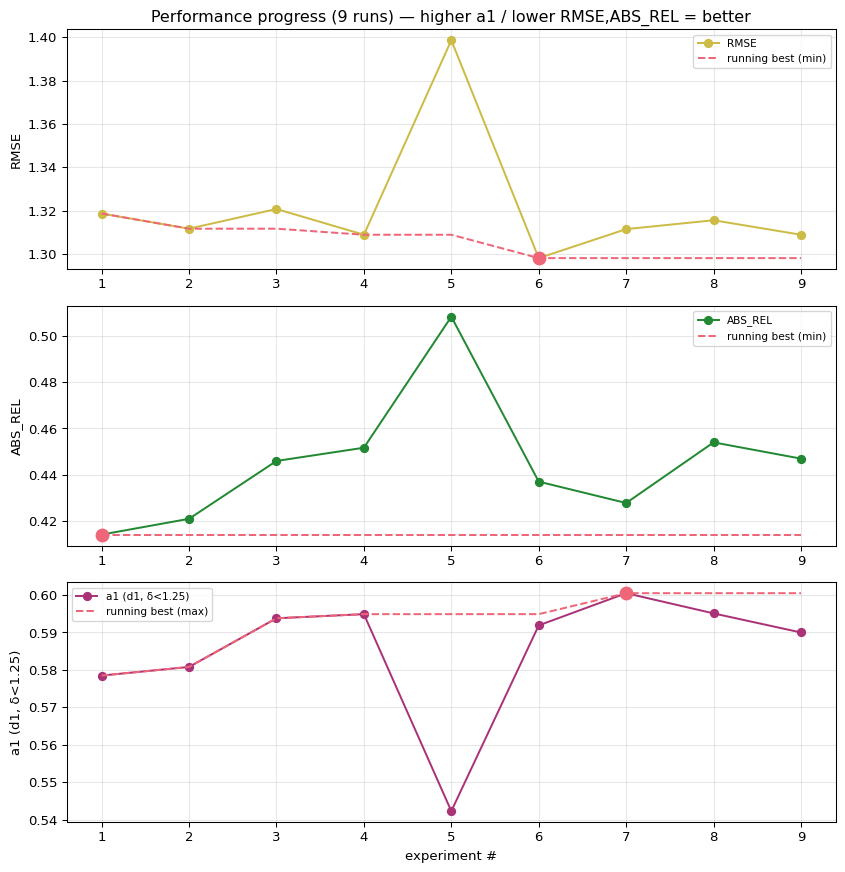
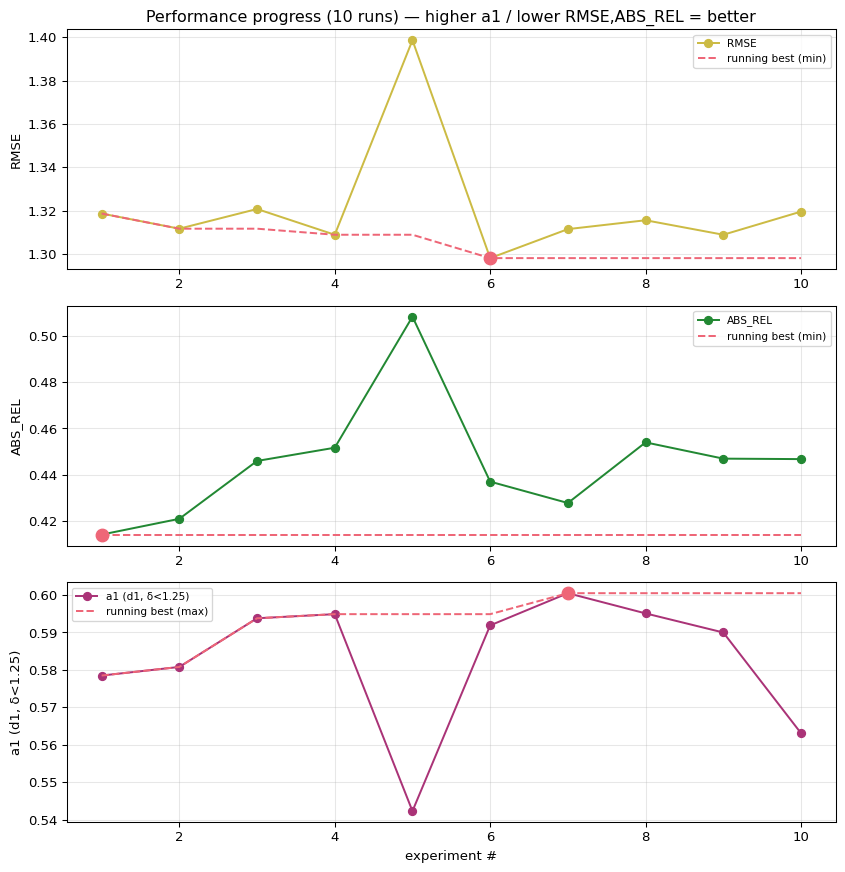
E9: RayDPT converges (D5 confirmed) -- and loses on d1, exactly where it claims to win (D9)
E9 raydpt_e9_d32L1_b64: abs_rel 0.4468  rmse 1.3195  d1 0.5631  composite 1.9308
21 epochs at 160.9 s/epoch, best checkpoint epoch 18 of 21, val loss flat over the last four.

CONVERGED. That was the success criterion, and it is met: the best epoch is no longer the
last. Against the starved E4 (2.0471, 5 epochs, best = last) the improvement is 0.1162, about
14 sigma. D5 is confirmed -- E4 measured budget, not architecture. Every RayDPT number in this
phase carries epochs_ran and best_epoch from now on.

Honest correction to my own forecast: 21 epochs, not the 24.4 the throughput bench predicted.
The bench timed train steps only; validation costs ~14 s/epoch. A benchmark that omits
validation overstates epochs-fit, and I should have said so before quoting 24.4.

D9, and it is the central question of the project. With both models now converged, RayDPT
trails batvision 1.9308 vs 1.8567, and the gap decomposes as:

    d1       contributes  +0.0691     <- essentially the whole deficit
    rmse     contributes  +0.0067     <- tied (1.3195 vs 1.3088)
    abs_rel  contributes  -0.0017

d1 is the ANGULAR metric. S0 established that the interaural cues (ILD, IPD), which encode
azimuth, buy d1, while log1p compression buys rmse. So the ray-conditioned model -- whose
entire premise is that depth should be decoded per ray DIRECTION -- is worse at direction than
a plain encoder-decoder squeezed through a 1x2 bottleneck, while matching it on range. The
[…]

diff --git a/utils/report.py b/utils/report.py
@@ -72,9 +72,11 @@ def _model_registry():
         ('batvision (5ch, nolog)', run_base,
          os.path.join(ROOT, 'checkpoints', 'batvision_5ch_nolog', 'best_model.pth'),
          dict(use_log=False)),                               # [L, R, ILD, cosIPD, sinIPD]
+        # "my model" = the RayDPT lineage champion. Its ARCHITECTURE flags must match the
+        # checkpoint, or load_state_dict finds missing keys and the tile renders "pending".
         ('current (my model)', train,
-         os.path.join(ROOT, 'checkpoints', 'raydpt_e4_planar', 'best_model.pth'),
-         dict()),                           # RayDPT, 5ch log on (adjust if cues change)
+         os.path.join(ROOT, 'checkpoints', 'raydpt_e9_d32L1_b64', 'best_model.pth'),
+         dict(decode_scale=32, ray_cross_layers=1)),   # E9: 5ch log, 32x64 decode, 1 cross layer
     ]
 
 

diff --git a/README.md b/README.md
@@ -7,19 +7,19 @@ Autonomous research — binaural echoes → ERP planar (cubemap) depth (SoundSpa
 
 | | |
 |---|---|
-| **Mode** | `EXPLOIT` — adaptive HPO ladder 3 -> 5 -> 7 -> 10, each step justified by evidence -> PASS / FAIL |
-| **Active study** | `S3` [refine] raydpt-throughput (*running*) |
-| **Research question** | Under a wall-clock budget, compute spent per step must be repaid in epochs. A model that cannot converge inside the budget is not being evaluated on its mechanism -- it is being penalised for its spee |
-| **Current action** | E9 raydpt_e9_d32L1_b64: --decode-scale 32 --ray-cross-layers 1 --batch-size 64 --lr 1.2e-3 (linear scaling) --amp bf16 --epochs 25. COMPOUND change; attribute nothing to a single p |
+| **Mode** | `VERIFY` — clean reimplementation on the correct parent -> standalone run -> bounded HPO -> PASS / FAIL |
+| **Active study** | `S4` [refine] raydpt-capacity (*running*) |
+| **Research question** | E9 is a COMPOUND change, so its deficit against the reference cannot be attributed. Before asking whether ray-conditioning helps, we must know which part of the capacity we removed was load-bearing -- |
+| **Current action** | E10 raydpt_e10_d32L2_b64: --decode-scale 32 --ray-cross-layers 2 --batch-size 64 --lr 1.2e-3 --amp bf16 --epochs 16. |
 | **Latest result** | *(no scored run in this study yet)* |
-| **Next decision** | The question is convergence, not victory. Success = epochs_ran approaches 25 AND the best epoch is no longer the last, i.e. the run actually converges. If the composite also beats E4's 2.0471, D5 is c |
-| **Why this mode** | RayDPT's throughput gates every RayDPT judgement (D5); the operator asked for a run that reaches 25 epochs. Measured, not guessed. |
+| **Next decision** | Judge on d1 first, not the composite: D9 says the gap is angular. If d1 recovers materially toward 0.5949, the cross-layer cut was load-bearing. If d1 does not move, the cut was free and the deficit l |
+| **Why this mode** | E9 established convergence but is a compound change. Before any claim about ray-conditioning, ablate the amputation: restore the cross-attention depth and see whether the d1 deficit (D9) is ours or th |
 
 ### Current hypothesis
 
-- **General** — Under a wall-clock budget, compute spent per step must be repaid in epochs. A model that cannot converge inside the budget is not being evaluated on its mechanism -- it is being penalised for its speed. Before RayDPT's ray-conditioning can be judged at all, RayDPT must be able to converge.
-- **Detailed** — E4 fitted 5 epochs at 713 s/epoch, best checkpoint = last epoch, all val metrics still improving. Profiling shows cross-attention is 67% of forward, and I2's oracle shows the 64x128 decode scale imposes a ceiling (composite 0.3527 even at 32x64) that the model, at 2.0471, is nowhere near. Cutting the decode scale to 32x64 and the cross-attention to one layer per scale gives a MEASURED 147.3 s/epoch = 24.4 epochs/h, while preserving ray-conditioning. A converged cheap ray model should beat an unconverged expensive one.
-- **Implementation note** — E9 raydpt_e9_d32L1_b64: --decode-scale 32 --ray-cross-layers 1 --batch-size 64 --lr 1.2e-3 (linear scaling) --amp bf16 --epochs 25. COMPOUND change; attribute nothing to a single part.
+- **General** — E9 is a COMPOUND change, so its deficit against the reference cannot be attributed. Before asking whether ray-conditioning helps, we must know which part of the capacity we removed was load-bearing -- otherwise we would be judging a mechanism by an amputation we chose ourselves.
+- **Detailed** — E9 cut both the decode scale (64->32) and the cross-attention depth (2->1 layers per ray scale). The audio<->ray cross-attention is where per-ray direction information enters the model, so halving it is the change most likely to have cost the d1 (angular) deficit seen in D9. Restoring ray_cross_layers=2 at decode 32 still fits the budget (measured 216.5 s/epoch = 16.6 epochs/h).
+- **Implementation note** — E10 raydpt_e10_d32L2_b64: --decode-scale 32 --ray-cross-layers 2 --batch-size 64 --lr 1.2e-3 --amp bf16 --epochs 16.
 
 ### Research portfolio
 
@@ -29,7 +29,6 @@ Autonomous research — binaural echoes → ERP planar (cubemap) depth (SoundSpa
 | `I3` | training-optimization | near | the 1h wall-clock budget is spent on epochs that make the model worse | backlog | queue after the RayDPT planar re-anchor (E4); this is a confound affecting EVERY future ru |
 | `I5` | ray conditioning / encoder-decoder correspondence | mid | RayDPT's DPT skip connections impose a FALSE spatial correspondence between the spectrogram's axes and the ERP's axes | inconclusive | none. Do not spend GPU on the skip ablation on this rationale. Revive only with an indepen |
 | `I7` | sensing physics / angular resolution | far | two microphones may fundamentally under-determine high azimuthal frequencies | candidate | Do not chase high-frequency power as a goal. Re-test the observability claim once RayDPT c |
-| `I8` | throughput / training-optimization | near | RayDPT is COMPUTE-STARVED under the fixed 1-hour wall-clock budget | candidate | E9 (raydpt_e9_d32L1_b64) is running: a COMPOUND change answering exactly one question -- d |
 | `I10` | acoustic-representation / interpolation | mid | the nearest-neighbour resize in _features() turns the time axis into a coarse staircase | inconclusive | deferred confirm: run `--feat-interp bilinear --stft-hop 40` after the RayDPT throughput s |
 | `I11` | encoder-decoder capacity / information bottleneck | mid | batvision reconstructs the whole 256x512 ERP map through a 1x2 bottleneck | backlog | run the diagnostic the moment E7 lands. |
 
@@ -39,25 +38,25 @@ Autonomous research — binaural echoes → ERP planar (cubemap) depth (SoundSpa
 
 - **`D2`** — Both 2ch cells peak at epoch 14 of 26 and both peak at exactly 2400.3 MB VRAM.
   <br/>*Why it matters:* The overfitting turn and the memory envelope are properties of the architecture + schedule, NOT of the input representation. This makes epoch count a CONFOUND for every comparison run under the fixed wall-clock budget: any change that slows an epoch silently reduces the epochs that fit, and is penalised for reasons unrelated to its mechanism.
-- **`D5`** — E4 (RayDPT) fitted only 5 epochs in the 1-hour budget (713.5 s/epoch) versus batvision's 25 (~130 s/epoch). Its best checkpoint is the LAST epoch and all val metrics were still improving monotonically. Peak VRAM 16.2 GB vs 2.4 GB.
-  <br/>*Why it matters:* E4's composite 2.0471 vs E3's 1.8567 CANNOT be read as 'RayDPT is the worse model'. One model converged and then overfit for 12 epochs; the other never reached convergence. Under a wall-clock budget, throughput is silently part of the score. Every RayDPT-vs-batvision statement in this phase must carry epochs_ran, and no RayDPT mechanism can be fairly judged until RayDPT can converge inside the budget.
 - **`D7`** — The two I1 arms improved the composite through OPPOSITE metrics. Arm A (density only, smear unchanged): rmse -0.0227, d1 -0.0019. Arm B (6.2x finer smear): rmse -0.0093, d1 +0.0067 -- and B's RMSE is worse than A's despite B having vastly better temporal resolution.
   <br/>*Why it matters:* If temporal resolution set range accuracy, B should own RMSE. It does not; A does, and A did not change resolution at all. Meanwhile B, which also sacrifices frequency resolution (win 400 -> 64), buys ANGLE. That inverts the physical story: sharper transients seem to help azimuth cues (ILD/IPD are read across frequency and time), while range accuracy responds to something in the sampling/interpolation of the time axis.
 - **`D8`** — E6 holds 29.7% LESS high-frequency azimuthal power than E2 (0.0232 vs 0.0331) yet has a BETTER d1 (0.6005 vs 0.5938). Separately, removing 58% of the gradient (E7 vs E3) barely changed the spectrum or the composite.
   <br/>*Why it matters:* It breaks the assumption -- mine, unstated until now -- that d1 improves because predictions get sharper. d1 counts pixels within +-25% of truth, and a well-centred smooth field beats a mis-placed sharp one. So the low-pass character of these models may be largely IRRELEVANT to the metric, and 'restore high frequencies' is probably the wrong research goal.
+- **`D9`** — With BOTH models converged, RayDPT (E9, 1.9308) trails batvision (E3, 1.8567) by 0.0741 -- and 0.0691 of that gap is d1 alone (0.5631 vs 0.5949). RMSE is essentially tied (1.3195 vs 1.3088, contributing 0.0067).
+  <br/>*Why it matters:* d1 is the ANGULAR metric: S0 established that the interaural cues (ILD, IPD), which encode azimuth, buy d1 while log1p compression buys rmse. So the ray-conditioned model -- whose entire premise is that depth should be decoded per ray DIRECTION -- is worse at direction than a plain encoder-decoder with a 1x2 bottleneck, while matching it on range. The mechanism is losing exactly where it claims to win.
 
 ### Recent decisions
 
 | When | Mode | Event | Note |
 |---|---|---|---|
+| 2026-07-10T10:55 | `verify` | discrepancy_recorded | D9: the ray-conditioned model loses to a plain U-Net almost entirely on d1 (angle), while tying on rmse (range). It is losing exac |
+| 2026-07-10T10:55 | `verify` | experiment_completed | CONVERGED RayDPT: composite 1.9308, 21 epochs, best at ep18/21. Beats starved E4 (2.0471) by 0.1162 = 14 sigma. D5 confirmed: RayD |
 | 2026-07-10T09:51 | `exploit` | direction_changed | Pure speed exhausted at 1.4x (500 s/epoch, 7.2 epochs). Reaching 25 epochs needs a CAPACITY cut, recorded as such: decode_scale 32 |
 | 2026-07-10T09:42 | `exploit` | experiment_completed | I10 discriminator (bilinear at hop160, information identical to E2): rmse -0.0119 (52% of E5's gain, predicted direction) but d1 - |
 | 2026-07-10T08:43 | `exploit` | discrepancy_recorded | Throughput reality check: bench measures 519 s/epoch at best (batch 48, bf16) = 6.9 epochs in the budget, versus 144 s/epoch neede |
 | 2026-07-10T08:43 | `exploit` | experiment_completed | batvision 5ch log, aux losses ZEROED: composite 1.8613 vs E3's 1.8567 (delta +0.0046, below sigma). Azimuthal high-frequency power |
 | 2026-07-10T08:40 | `exploit` | discrepancy_recorded | D8: E6 has 29.7% LESS high-frequency power than E2 yet BETTER d1. Sharpness and d1 are not the same thing -- a well-centred smooth |
 | 2026-07-10T08:40 | `exploit` | candidate_dropped | REFUTED: zeroing both low-frequency auxiliaries (58.2% of the gradient) moved the composite by +0.0046 (below sigma) and high-freq |
-| 2026-07-10T08:33 | `exploit` | idea_added | VALIDATED: e5..e8 deletion is output bit-identical (max\|diff\|=0.0). RayDPT 24.44M -> 7.66M params. |
-| 2026-07-10T08:33 | `exploit` | mode_changed | RayDPT's throughput (I8) now gates every RayDPT judgement, and the user asked for a run that reaches 25 epochs. Three output-equiv |
 
 *Updated by `python utils/report.py research`. Champion: none yet.*
 <!-- RESEARCH:END -->
@@ -100,6 +99,7 @@ running best highlighted):
 | 7 | `b9c2f71` | 0.4279 | 1.3114 | 0.6005 | 1.8379 | keep | E6 batvision 5ch nolog win64 hop16 (I1 arm B: true resolution), 25ep |
 | 8 | `b9c2f71` | 0.4540 | 1.3155 | 0.5951 | 1.8613 | keep | E7 batvision 5ch log, aux losses ZEROED (I6 vs I7 discriminator) |
 | 9 | `7fae910` | 0.4470 | 1.3088 | 0.5900 | 1.8658 | keep | E8 batvision 5ch nolog win400 hop160 BILINEAR resize (I10: staircase discriminator) |
+| 10 | `bb9692d` | 0.4468 | 1.3195 | 0.5631 | 1.9309 | keep | E9 RayDPT decode32 xlayers1 batch64 lr1.2e-3 bf16 ep25 (S3: does a CONVERGED RayDPT beat a starved one?) |
 <!-- RESULTS:END -->
 
 ## Progression (composite, lower = better)